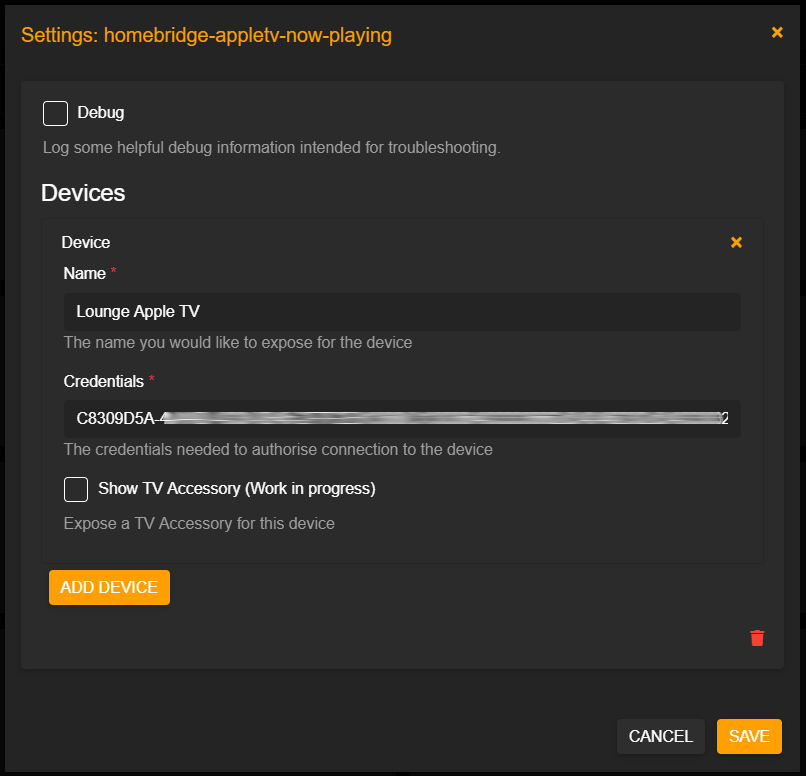
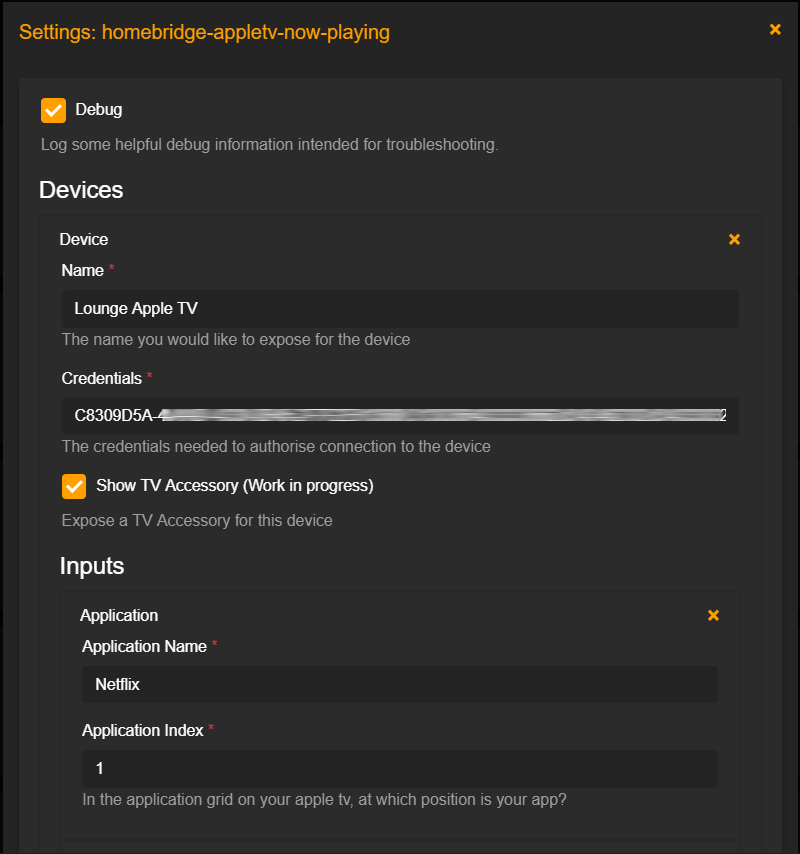
Testing

diff --git a/README.md b/README.md
@@ -8,7 +8,11 @@ This plugin exposes the Apple TV as a switch device, with the switch power state
 
 The media type is calculated by checking artist and album information. This characterist comes in handy if you would like to setup automations that dim light for only videos and not music.
 
-** Note: ** The now playing information are exposed as custom charactersitics, which means that the Apple Home App will not be able to read these. You will need to use an app such as [Home+ 4](https://apps.apple.com/us/app/home-4/id995994352) or [Eve for Homekit](https://apps.apple.com/us/app/eve-for-homekit/id917695792).
+**Note:** The now playing information are exposed as custom charactersitics, which means that the Apple Home App will not be able to read these. You will need to use an app such as [Home+ 4](https://apps.apple.com/us/app/home-4/id995994352) or [Eve for Homekit](https://apps.apple.com/us/app/eve-for-homekit/id917695792).
+
+**Note:** The TV Accessory is an _experimental_ feature, so please use it expecting things to not work. 
+
+It launches apps by mimicking button presses to the location of the app on the home screen and selecting it. It seems to be working fairly well and is a good substitute for when / if true application launching is available. I am looking into how I might be able to get the currently launched application without the now playing info so that the input selection can be updated if it changes outside of the accessory.
 
 ## Configration
 
@@ -53,7 +57,7 @@ In order to retrieve credentials for your Apple TV, please follow these step
 2. Choose the device with which you would like to pair.
 3. Enter the PIN shown on your device.
 
-Example:
+**Example:**
 
 ```
 /path/to/homebridge-appletv-now-playing $ node .\bin\cli.js
